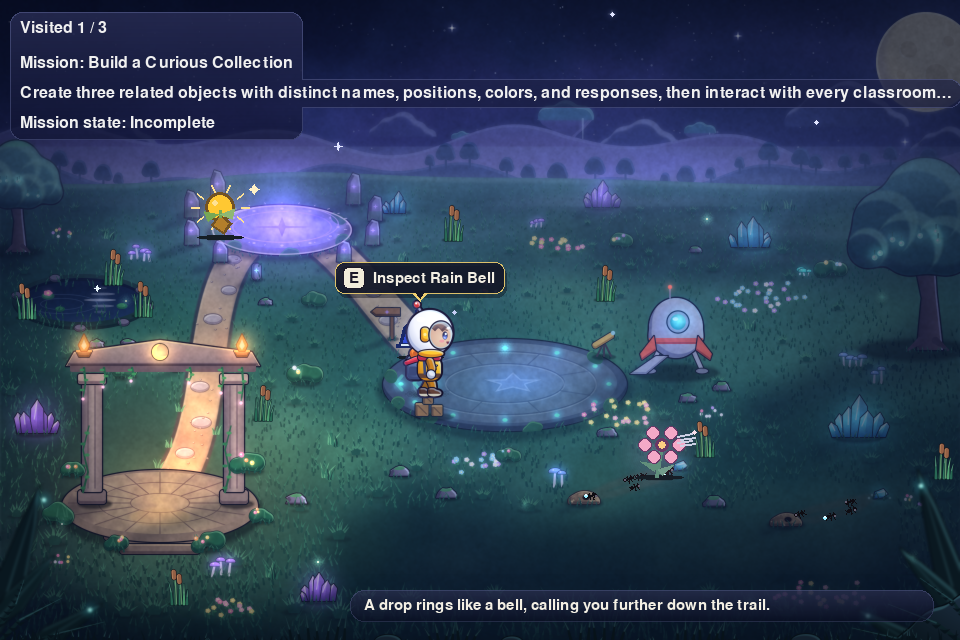
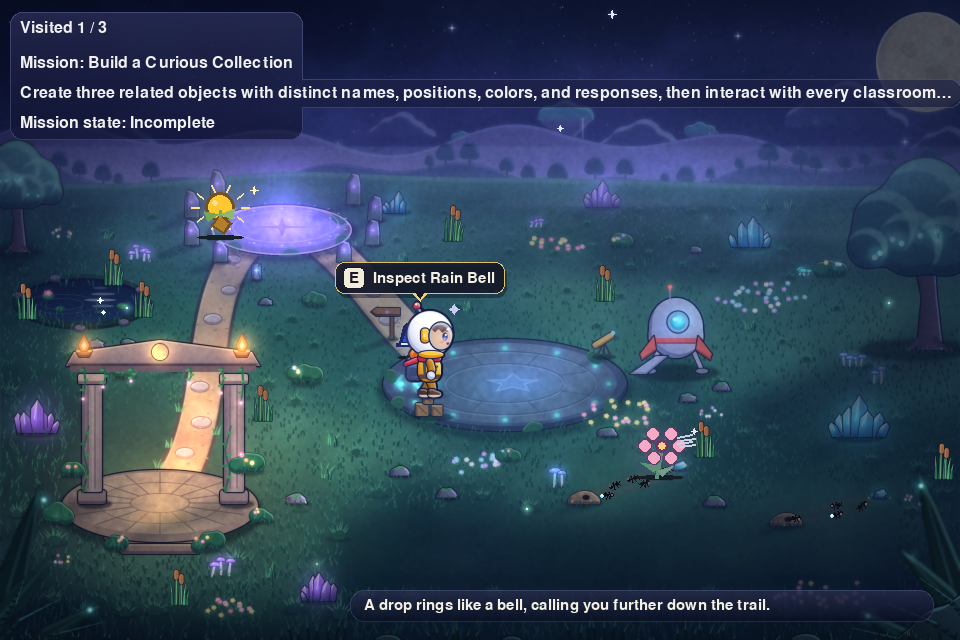
Refresh corrected S06 proof and runtime pin

diff --git a/scripts/provision_student_workspace.py b/scripts/provision_student_workspace.py
@@ -8,7 +8,7 @@ import shutil
 import subprocess
 from pathlib import Path
 
-COURSE_PLATFORM_COMMIT = "610e301310efc8fc0156660d3d2343c18f24847a"
+COURSE_PLATFORM_COMMIT = "8811a5ceff647d4a6f408bb1aa9764b5cd64c607"
 SESSION_IDS = tuple(f"s{number:02d}" for number in range(1, 31))
 EXAMPLE_PACKAGE_IDS = (
     "crystal-lantern",

diff --git a/tests/test_journey_snapshot_freshness.py b/tests/test_journey_snapshot_freshness.py
@@ -144,8 +144,8 @@ STALE_MUTATIONS = (
     (
         "trail-construction",
         "explore/packages/classroom_trail.py",
-        "x=player.x,",
-        "x=player.x + 1,",
+        "x=player_x,",
+        "x=player_x + 1,",
         "runtime",
     ),
     # 5. Colours.

diff --git a/docs/operations/s01-clean-rehearsal-2026-09-10.md b/docs/operations/s01-clean-rehearsal-2026-09-10.md
@@ -52,7 +52,7 @@ the frozen Moon Meadow on top of that HUD: the S05 package's Moonlit Guide wears
 Guide art, each conversation line gets the existing dialogue bubble, and the existing talk cue
 and audio are reused. The original S01 rehearsal inputs and result above remain an unchanged historical
 record. On 2026-10-24 the pin advanced to
-`610e301310efc8fc0156660d3d2343c18f24847a` for S06's package-scoped Moon Meadow
+`8811a5ceff647d4a6f408bb1aa9764b5cd64c607` for S06's package-scoped Moon Meadow
 presentation: the canonical Sun Seed, Rain Bell, and Wind Flower receive distinct
 polished marker primitives while later M06 reuse sessions stay on their existing
 presentation.

diff --git a/docs/journey-proof/snapshots/README.md b/docs/journey-proof/snapshots/README.md
@@ -81,7 +81,7 @@ What each check verifies:
 
 - Base: `origin/main` at `fbf4b53c94bc1e47d61a60288898b0062868b41e`.
 - Runtime pin (Course Kit `COURSE_PLATFORM_COMMIT`):
-  `610e301310efc8fc0156660d3d2343c18f24847a` (S06's package-scoped Moon Meadow
+  `8811a5ceff647d4a6f408bb1aa9764b5cd64c607` (S06's package-scoped Moon Meadow
   runtime; previously `2692c2f1a7c07d1576b7837c2a91e542b73bd3e0`).
   The harness refuses to publish
   unless the working tree's presentation runtime (every `runtime` file below)
